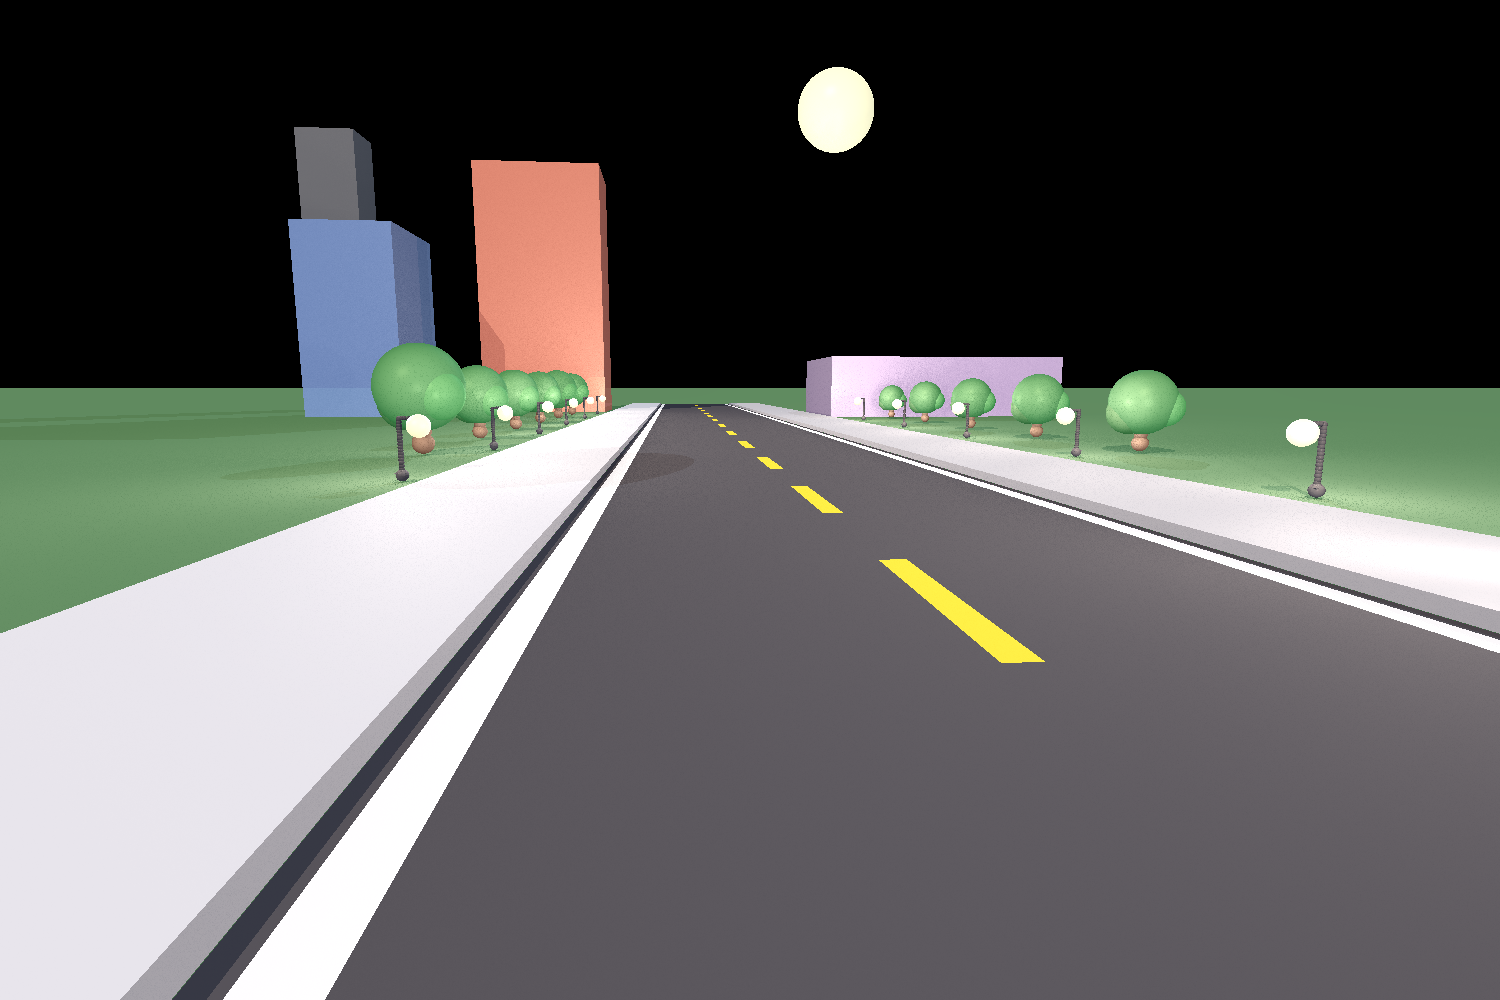
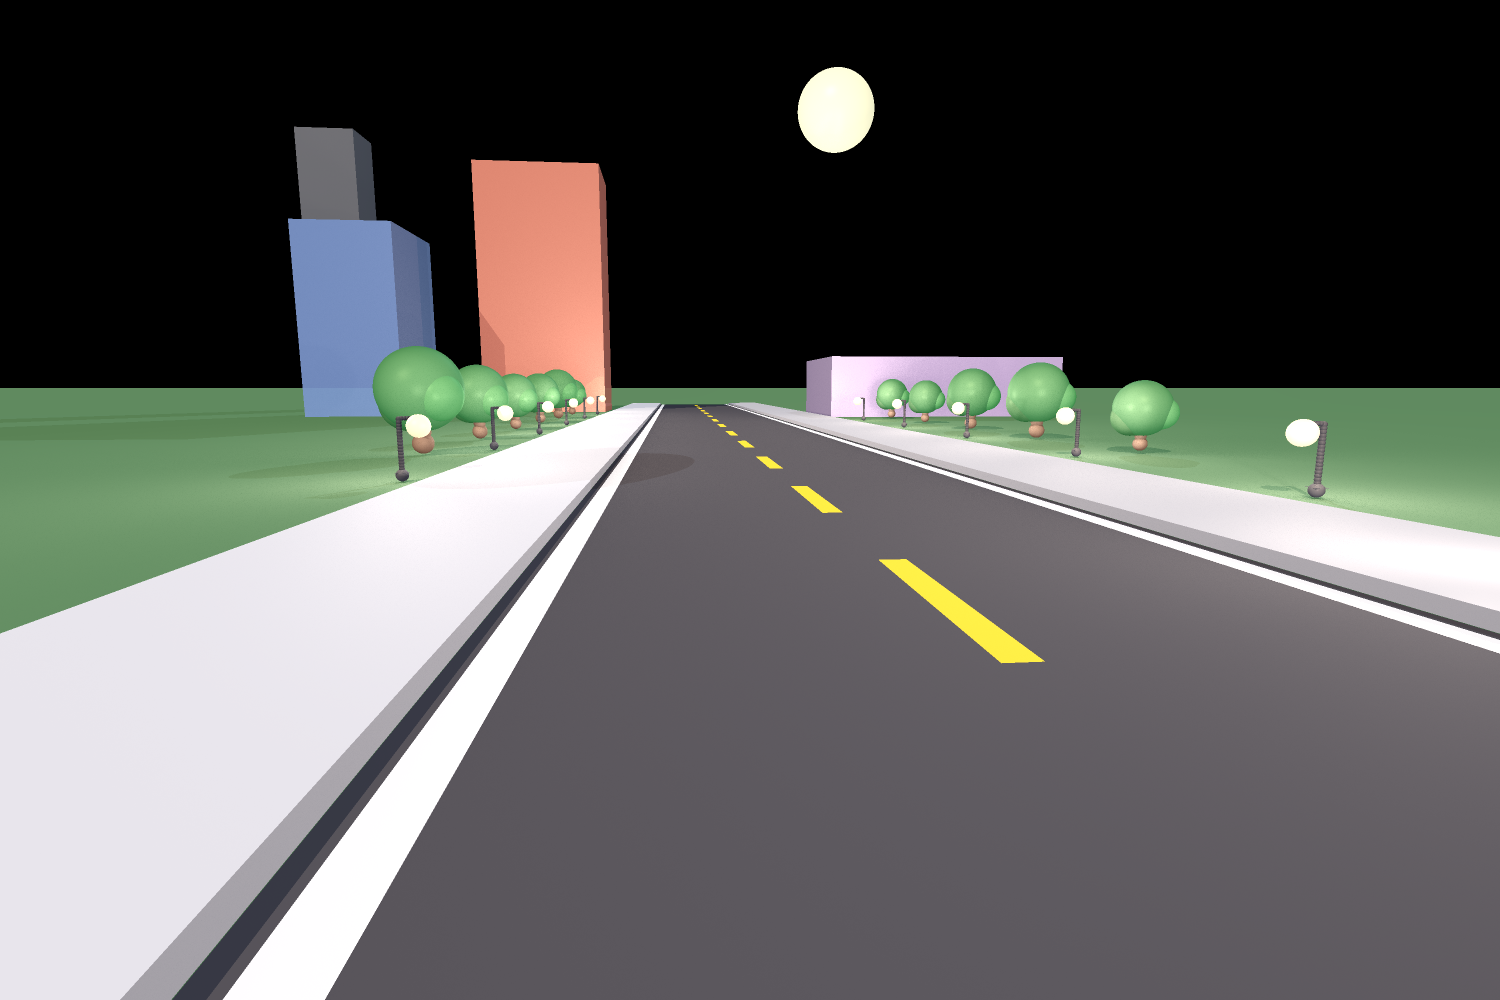
5 sample

Changed region(s): [[0.5827, 0.341, 0.7973, 0.465], [0.3373, 0.372, 0.3987, 0.434], [0.2453, 0.341, 0.3067, 0.372]]

diff --git a/unittests/renderer/StreetSceneNoThreadsTest.java b/unittests/renderer/StreetSceneNoThreadsTest.java
@@ -150,7 +150,7 @@ public class StreetSceneNoThreadsTest {
         scene.lights.add(new DirectionalLight(new Color(20, 25, 30), new Vector(-0.2, -0.3, 0.5)));
         scene.lights.add(
                 new PointLight(new Color(90, 85, 65), new Point(50, 120, -250))
-                        .setKl(0.00001).setKq(0.000005).setRadius(10.0).setNumSamples(3)
+                        .setKl(0.00001).setKq(0.000005).setRadius(10.0).setNumSamples(5)
         );
         scene.lights.add(
                 new SpotLight(new Color(70, 65, 50), new Point(50, 120, -250), new Vector(0.1, -1, 0.3))
@@ -161,24 +161,24 @@ public class StreetSceneNoThreadsTest {
             double zRight = zLeft + 25;
             scene.lights.add(
                     new PointLight(new Color(100, 90, 80), new Point(-50, 9.2, zLeft))
-                            .setKl(0.001).setKq(0.0005).setRadius(10.0).setNumSamples(3)
+                            .setKl(0.001).setKq(0.0005).setRadius(10.0).setNumSamples(5)
             );
             scene.lights.add(
                     new PointLight(new Color(100, 90, 80), new Point(55, 9.2, zRight))
-                            .setKl(0.001).setKq(0.0005).setRadius(10.0).setNumSamples(3)
+                            .setKl(0.001).setKq(0.0005).setRadius(10.0).setNumSamples(5)
             );
         }
         scene.lights.add(
                 new PointLight(new Color(80, 70, 60), new Point(-150, 40, -295))
-                        .setKl(0.0003).setKq(0.00015).setRadius(1.5).setNumSamples(3)
+                        .setKl(0.0003).setKq(0.00015).setRadius(1.5).setNumSamples(5)
         );
         scene.lights.add(
                 new PointLight(new Color(80, 70, 60), new Point(-80, 60, -350))
-                        .setKl(0.0003).setKq(0.00015).setRadius(1.5).setNumSamples(3)
+                        .setKl(0.0003).setKq(0.00015).setRadius(1.5).setNumSamples(5)
         );
         scene.lights.add(
                 new PointLight(new Color(120, 110, 100), new Point(35, 6, 20))
-                        .setKl(0.0005).setKq(0.0003).setRadius(1.0).setNumSamples(3)
+                        .setKl(0.0005).setKq(0.0003).setRadius(1.0).setNumSamples(5)
         );
 
         // ===== Camera Setup without Threads =====
@@ -193,7 +193,7 @@ public class StreetSceneNoThreadsTest {
 
         // Enable sampling
         camera.setSamplingConfig(new SamplingConfig(
-                3, TargetShape.RECTANGLE, SamplingPattern.GRID
+                5, TargetShape.RECTANGLE, SamplingPattern.GRID
         ));
 
         System.out.println("Available processors: " + Runtime.getRuntime().availableProcessors());

diff --git a/unittests/renderer/StreetSceneBVHNoThreadTest.java b/unittests/renderer/StreetSceneBVHNoThreadTest.java
@@ -148,7 +148,7 @@ public class StreetSceneBVHNoThreadTest {
 
         scene.lights.add(
                 new PointLight(new Color(90, 85, 65), new Point(50, 120, -250))
-                        .setKl(0.00001).setKq(0.000005).setRadius(10.0).setNumSamples(3)
+                        .setKl(0.00001).setKq(0.000005).setRadius(10.0).setNumSamples(5)
         );
         scene.lights.add(
                 new SpotLight(new Color(70, 65, 50), new Point(50, 120, -250), new Vector(0.1, -1, 0.3))
@@ -159,24 +159,24 @@ public class StreetSceneBVHNoThreadTest {
             double zRight = zLeft + 25;
             scene.lights.add(
                     new PointLight(new Color(100, 90, 80), new Point(-50, 9.2, zLeft))
-                            .setKl(0.001).setKq(0.0005).setRadius(10.0).setNumSamples(3)
+                            .setKl(0.001).setKq(0.0005).setRadius(10.0).setNumSamples(5)
             );
             scene.lights.add(
                     new PointLight(new Color(100, 90, 80), new Point(55, 9.2, zRight))
-                            .setKl(0.001).setKq(0.0005).setRadius(10.0).setNumSamples(3)
+                            .setKl(0.001).setKq(0.0005).setRadius(10.0).setNumSamples(5)
             );
         }
         scene.lights.add(
                 new PointLight(new Color(80, 70, 60), new Point(-150, 40, -295))
-                        .setKl(0.0003).setKq(0.00015).setRadius(1.5).setNumSamples(3)
+                        .setKl(0.0003).setKq(0.00015).setRadius(1.5).setNumSamples(5)
         );
         scene.lights.add(
                 new PointLight(new Color(80, 70, 60), new Point(-80, 60, -350))
-                        .setKl(0.0003).setKq(0.00015).setRadius(1.5).setNumSamples(3)
+                        .setKl(0.0003).setKq(0.00015).setRadius(1.5).setNumSamples(5)
         );
         scene.lights.add(
                 new PointLight(new Color(120, 110, 100), new Point(35, 6, 20))
-                        .setKl(0.0005).setKq(0.0003).setRadius(1.0).setNumSamples(3)
+                        .setKl(0.0005).setKq(0.0003).setRadius(1.0).setNumSamples(5)
         );
 
         // ===== Camera Setup without Threads =====
@@ -191,7 +191,7 @@ public class StreetSceneBVHNoThreadTest {
 
         // Enable sampling
         camera.setSamplingConfig(new SamplingConfig(
-                3, TargetShape.RECTANGLE, SamplingPattern.GRID
+                5, TargetShape.RECTANGLE, SamplingPattern.GRID
         ));
 
         System.out.println("Available processors: " + Runtime.getRuntime().availableProcessors());

diff --git a/unittests/renderer/StreetSceneBVHThreadTest.java b/unittests/renderer/StreetSceneBVHThreadTest.java
@@ -150,7 +150,7 @@ public class StreetSceneBVHThreadTest {
 
         scene.lights.add(
                 new PointLight(new Color(90, 85, 65), new Point(50, 120, -250))
-                        .setKl(0.00001).setKq(0.000005).setRadius(10.0).setNumSamples(3)
+                        .setKl(0.00001).setKq(0.000005).setRadius(10.0).setNumSamples(5)
         );
         scene.lights.add(
                 new SpotLight(new Color(70, 65, 50), new Point(50, 120, -250), new Vector(0.1, -1, 0.3))
@@ -161,24 +161,24 @@ public class StreetSceneBVHThreadTest {
             double zRight = zLeft + 25;
             scene.lights.add(
                     new PointLight(new Color(100, 90, 80), new Point(-50, 9.2, zLeft))
-                            .setKl(0.001).setKq(0.0005).setRadius(10.0).setNumSamples(3)
+                            .setKl(0.001).setKq(0.0005).setRadius(10.0).setNumSamples(5)
             );
             scene.lights.add(
                     new PointLight(new Color(100, 90, 80), new Point(55, 9.2, zRight))
-                            .setKl(0.001).setKq(0.0005).setRadius(10.0).setNumSamples(3)
+                            .setKl(0.001).setKq(0.0005).setRadius(10.0).setNumSamples(5)
             );
         }
         scene.lights.add(
                 new PointLight(new Color(80, 70, 60), new Point(-150, 40, -295))
-                        .setKl(0.0003).setKq(0.00015).setRadius(1.5).setNumSamples(3)
+                        .setKl(0.0003).setKq(0.00015).setRadius(1.5).setNumSamples(5)
         );
         scene.lights.add(
                 new PointLight(new Color(80, 70, 60), new Point(-80, 60, -350))
-                        .setKl(0.0003).setKq(0.00015).setRadius(1.5).setNumSamples(3)
+                        .setKl(0.0003).setKq(0.00015).setRadius(1.5).setNumSamples(5)
         );
         scene.lights.add(
                 new PointLight(new Color(120, 110, 100), new Point(35, 6, 20))
-                        .setKl(0.0005).setKq(0.0003).setRadius(1.0).setNumSamples(3)
+                        .setKl(0.0005).setKq(0.0003).setRadius(1.0).setNumSamples(5)
         );
 
         // ===== Camera Setup with AA =====
@@ -193,7 +193,7 @@ public class StreetSceneBVHThreadTest {
                 .build();
 
         camera.setSamplingConfig(new SamplingConfig(
-                3, TargetShape.RECTANGLE, SamplingPattern.GRID
+                5, TargetShape.RECTANGLE, SamplingPattern.GRID
         ));
 
         System.out.println("Available processors: " + Runtime.getRuntime().availableProcessors());

diff --git a/unittests/renderer/StreetSceneThreadsTest.java b/unittests/renderer/StreetSceneThreadsTest.java
@@ -166,7 +166,7 @@ public class StreetSceneThreadsTest {
         scene.lights.add(
                 new PointLight(new Color(90, 85, 65), new Point(50, 120, -250))
                         .setKl(0.00001).setKq(0.000005)
-                        .setRadius(10.0).setNumSamples(3)
+                        .setRadius(10.0).setNumSamples(5)
         );
 
         // Additional moonlight to illuminate the ground below
@@ -183,12 +183,12 @@ public class StreetSceneThreadsTest {
             scene.lights.add(
                     new PointLight(new Color(100, 90, 80), new Point(-50, 8 + 1.2, zLeft))
                             .setKl(0.001).setKq(0.0005)
-                            .setRadius(10.0).setNumSamples(3)
+                            .setRadius(10.0).setNumSamples(5)
             );
             scene.lights.add(
                     new PointLight(new Color(100, 90, 80), new Point(55, 8 + 1.2, zRight))
                             .setKl(0.001).setKq(0.0005)
-                            .setRadius(10.0).setNumSamples(3)
+                            .setRadius(10.0).setNumSamples(5)
             );
         }
 
@@ -196,17 +196,17 @@ public class StreetSceneThreadsTest {
         scene.lights.add(
                 new PointLight(new Color(80, 70, 60), new Point(-150, 40, -295))
                         .setKl(0.0003).setKq(0.00015)
-                        .setRadius(1.5).setNumSamples(3)
+                        .setRadius(1.5).setNumSamples(5)
         );
         scene.lights.add(
                 new PointLight(new Color(80, 70, 60), new Point(-80, 60, -350))
                         .setKl(0.0003).setKq(0.00015)
-                        .setRadius(1.5).setNumSamples(3)
+                        .setRadius(1.5).setNumSamples(5)
         );
         scene.lights.add(
                 new PointLight(new Color(120, 110, 100), new Point(35, 6, 20))
                         .setKl(0.0005).setKq(0.0003)
-                        .setRadius(1.0).setNumSamples(3)
+                        .setRadius(1.0).setNumSamples(5)
         );
 
         // ===== Camera Setup with Multithreading, Logging & AA =====
@@ -221,7 +221,7 @@ public class StreetSceneThreadsTest {
                 .build();
         // Enable sampling
         camera.setSamplingConfig(new SamplingConfig(
-                3, TargetShape.RECTANGLE, SamplingPattern.GRID
+                5, TargetShape.RECTANGLE, SamplingPattern.GRID
         ));
 
         System.out.println("Available processors: " + Runtime.getRuntime().availableProcessors());

diff --git a/src/geometries/BVHNode.java b/src/geometries/BVHNode.java
@@ -41,29 +41,50 @@ public class BVHNode extends Intersectable {
      */
     @Override
     protected List<Intersection> calculateIntersectionsHelper(Ray ray) {
-        // Leaf: accumulate all intersections under this box
+        // If this is a leaf node, test each primitive directly.
         if (leafObjs != null) {
             List<Intersection> result = null;
             for (Intersectable o : leafObjs) {
-                var hits = o.calculateIntersections(ray);
+                List<Intersection> hits = o.calculateIntersections(ray);
                 if (hits != null) {
-                    if (result == null) result = new ArrayList<>();
+                    if (result == null) {
+                        result = new ArrayList<>();
+                    }
                     result.addAll(hits);
                 }
             }
             return result;
         }
 
-        // Internal node: traverse left then right
-        var leftHits  = left.calculateIntersections(ray);
-        var rightHits = right.calculateIntersections(ray);
+        // Otherwise this is an internal node: test each child's bounding box once,
+        // then recurse only into children whose box actually intersects the ray.
+        List<Intersection> result = null;
 
-        if (leftHits == null)  return rightHits;
-        if (rightHits == null) return leftHits;
+        // Left child
+        BoundingBox lb = left.getBoundingBox();
+        if (lb != null && lb.intersects(ray)) {
+            List<Intersection> leftHits = left.calculateIntersectionsHelper(ray);
+            if (leftHits != null) {
+                result = new ArrayList<>(leftHits);
+            }
+        }
 
-        leftHits.addAll(rightHits);
-        return leftHits;
+        // Right child
+        BoundingBox rb = right.getBoundingBox();
+        if (rb != null && rb.intersects(ray)) {
+            List<Intersection> rightHits = right.calculateIntersectionsHelper(ray);
+            if (rightHits != null) {
+                if (result == null) {
+                    result = new ArrayList<>(rightHits);
+                } else {
+                    result.addAll(rightHits);
+                }
+            }
+        }
+
+        return result;
     }
+
 
     /**
      * Build a BVH over a flat list of primitives.
